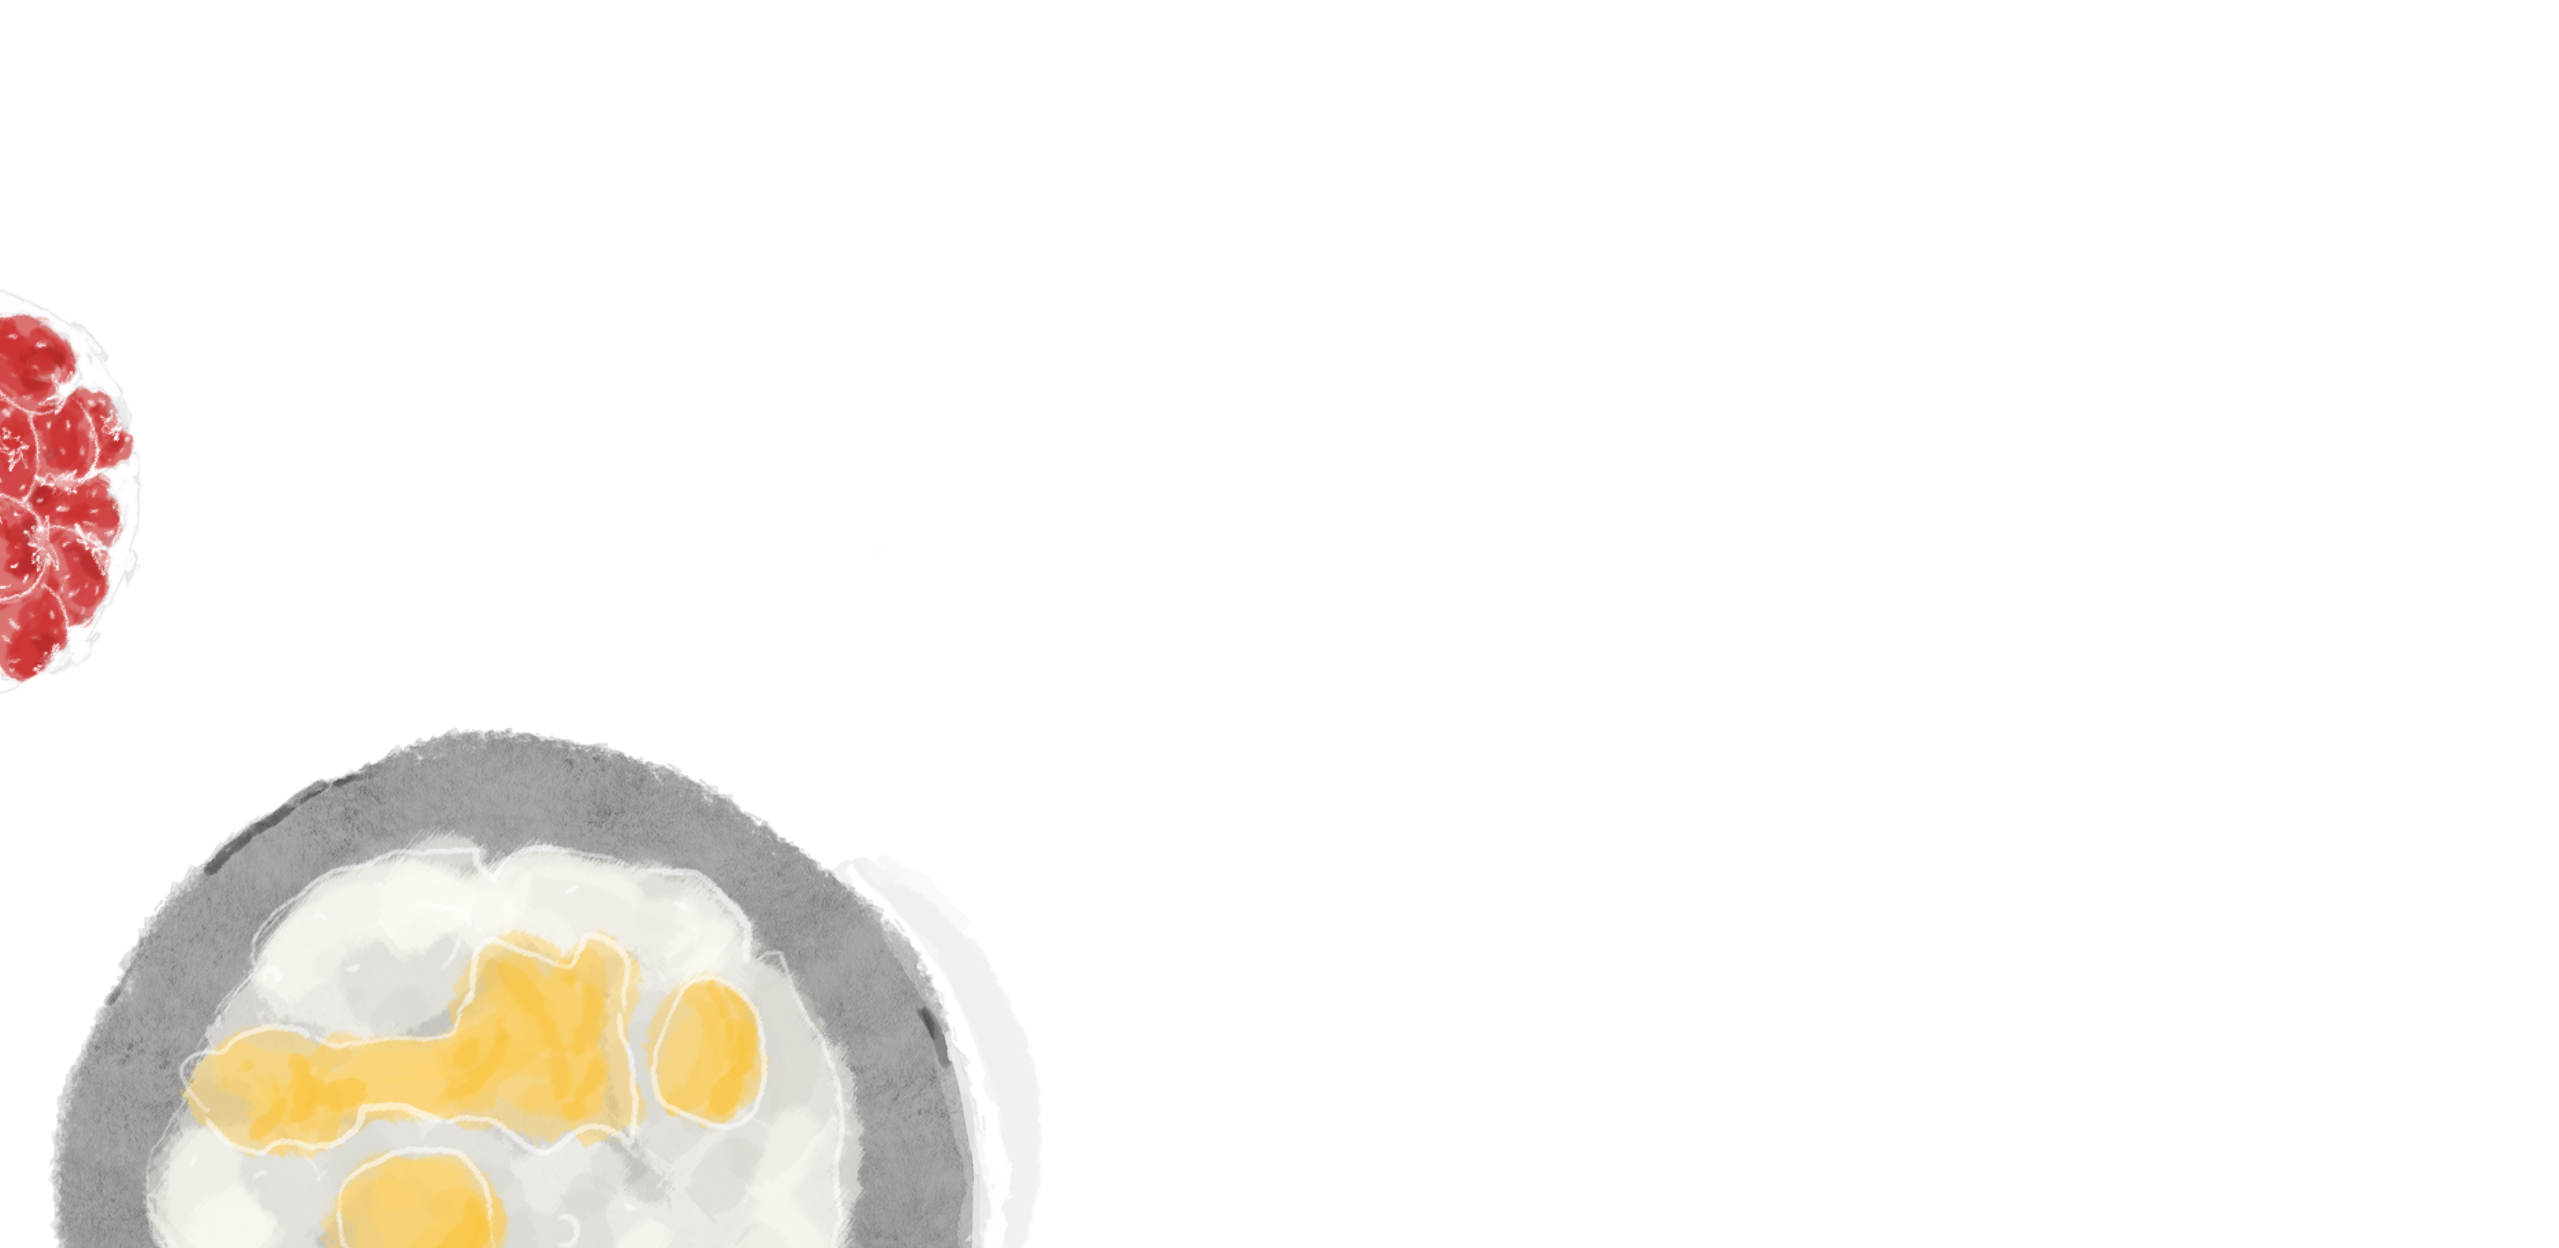
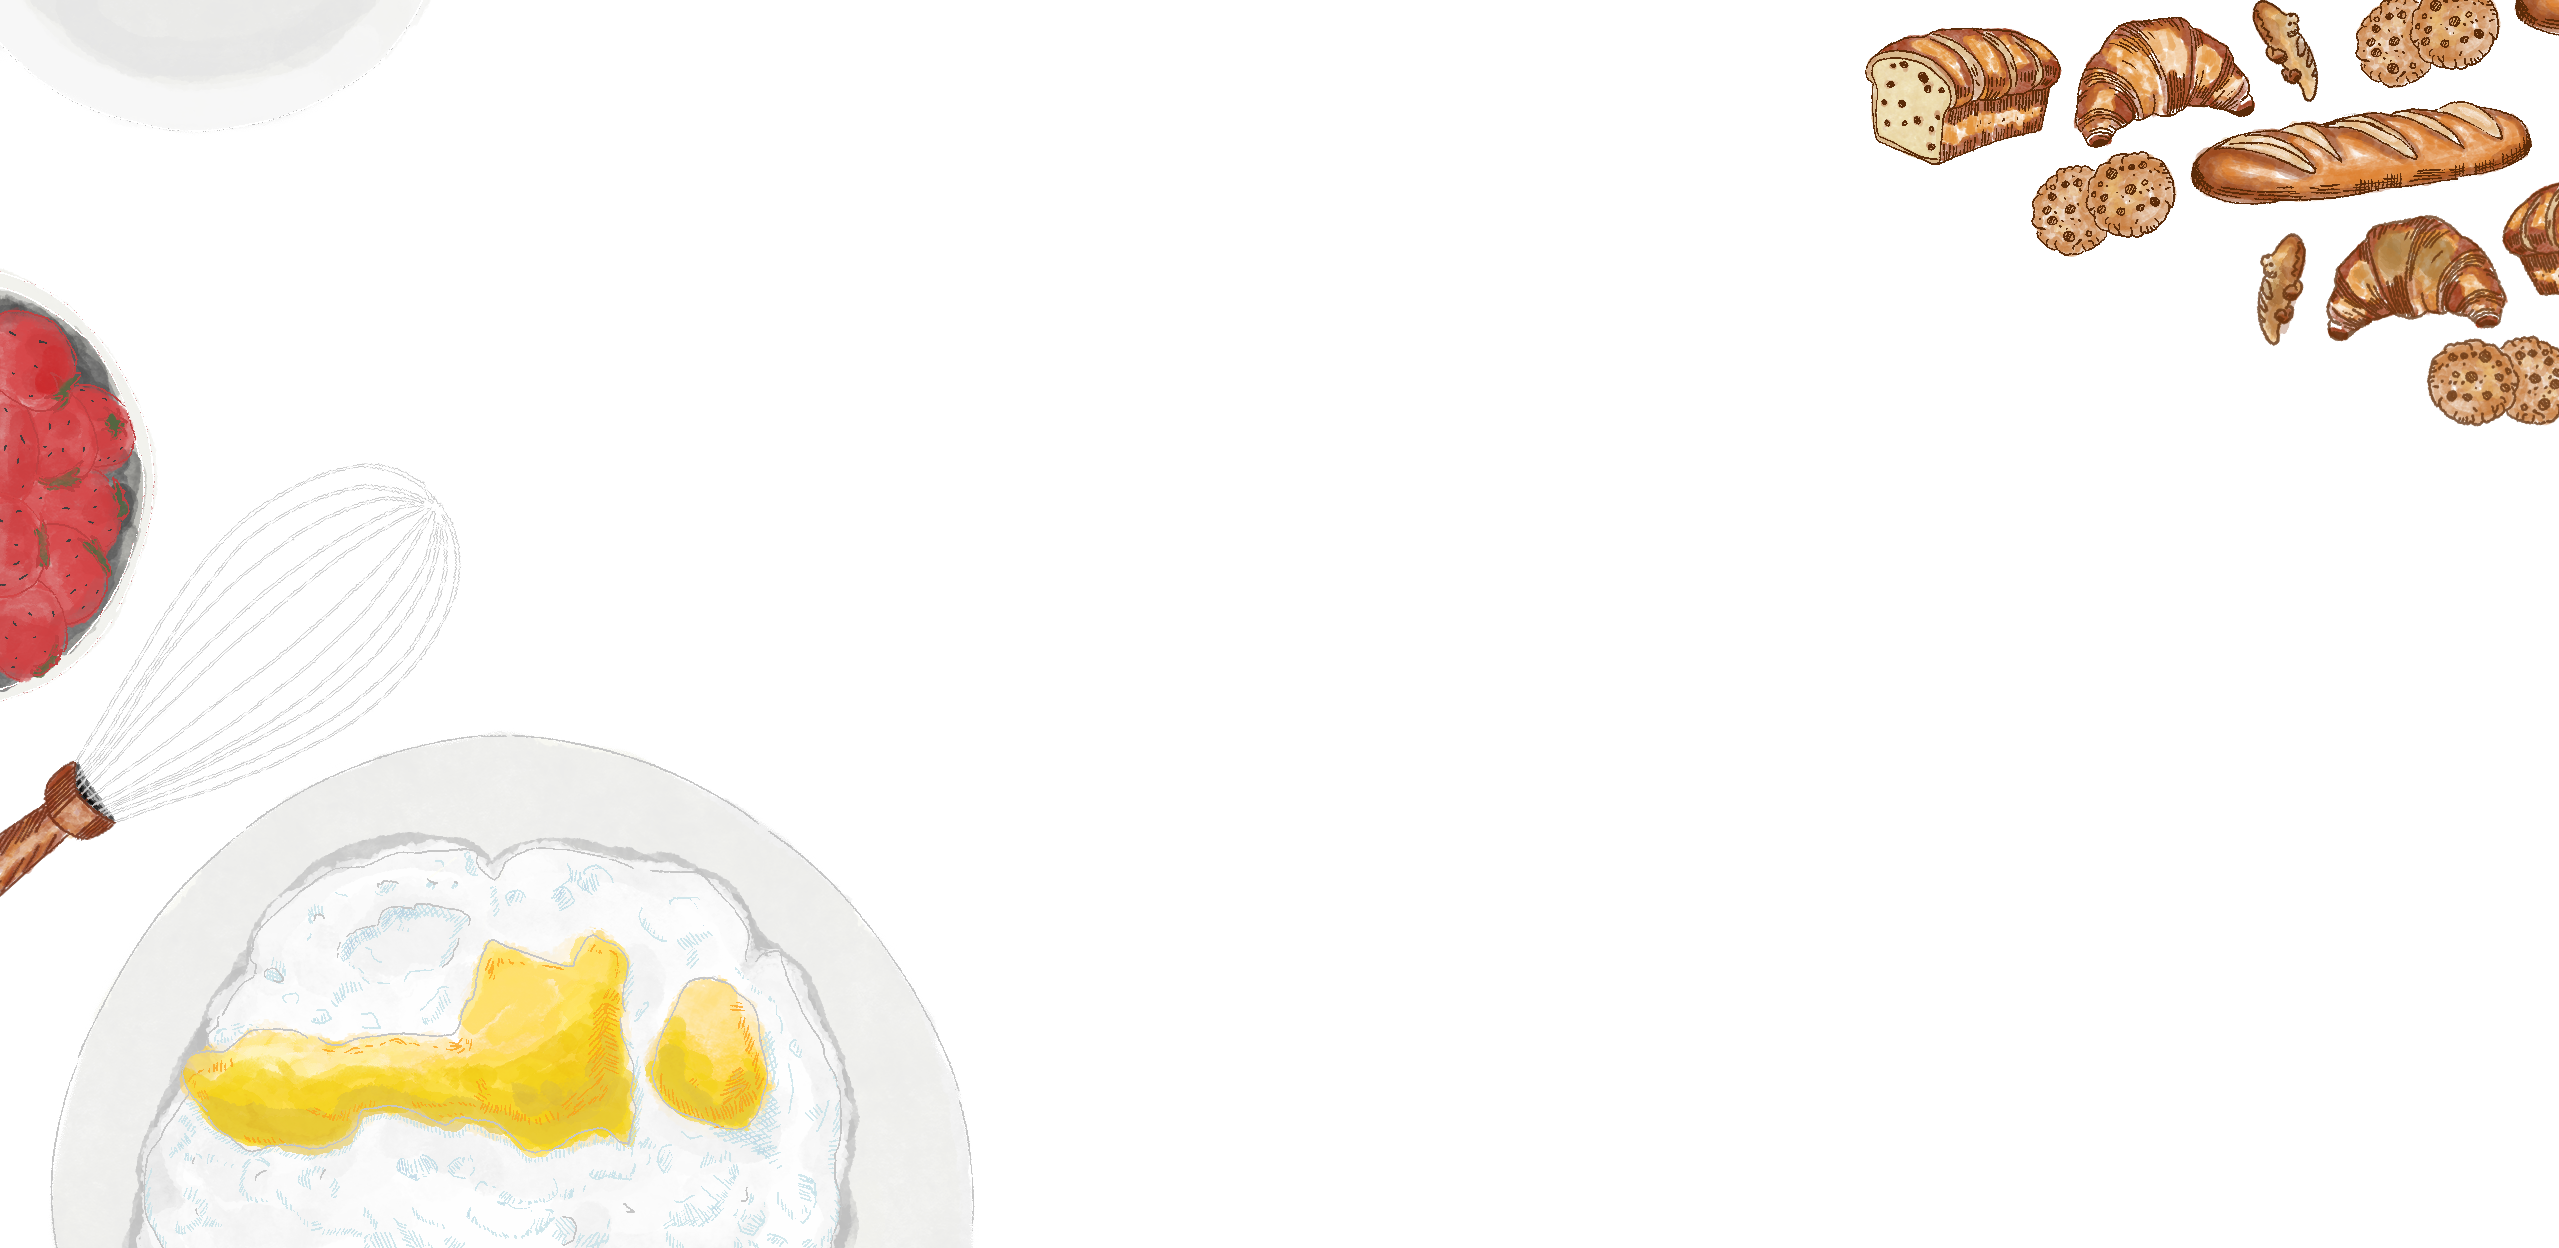
refactor: drew assets and bg image for projects page - #3

diff --git a/components/HomePage.tsx b/components/HomePage.tsx
@@ -4,7 +4,6 @@ import Vignette from "@/components/Vignette";
 import PortfolioHeader from "@/components/PortfolioHeader";
 import SocialLinks from "@/components/SocialLinks";
 import BlackoutBackground from "@/components/BlackoutBackground";
-import Image from "next/image";
 import { useLightbulb } from "@/components/LightbulbContext";
 
 export default function HomePage() {
@@ -24,36 +23,15 @@ export default function HomePage() {
           height: "50%",
         }}
       />
-      <div className="grid grid-cols-1 md:grid-cols-2 flex-1 min-h-0 relative z-10 items-center">
-        <div className="flex flex-col h-full justify-center pl-50">
-          <div className="p-10 mt-[2%] w-14/16 mx-auto">
+      <div className="flex flex-1 min-h-0 relative z-10 items-center justify-center">
+        <div className="flex flex-col h-full justify-center">
+          <div className="p-10 mt-[2%] w-15/16 mx-auto">
             <div className="relative z-101">
               <PortfolioHeader />
               <div className="absolute left-25" style={{ top: "62%", left: "12%" }}>
                 <SocialLinks />
               </div>
             </div>
-          </div>
-        </div>
-        <div className="flex flex-col h-full justify-center">
-          <div className="p-10 pb-[8%] w-10/25 mx-auto">
-            <Image
-              src={isBlackedOut ? "/me-dark.gif" : "/me.gif"}
-              alt="Luke Regalado self-portrait"
-              className="w-full h-auto"
-              width={263}
-              height={261}
-              unoptimized
-            />
-          </div>
-          <div className="p-10 pt-0 w-2/3 mx-auto relative" style={{ top: "-8%" }}>
-            <p className={`font-mono text-2xl tracking-widest leading-relaxed transition-colors duration-500 ${
-              isBlackedOut ? "text-[#EDE8DC]" : "text-muted"
-            }`}>
-              A software engineer who enjoys building purposeful and creative
-              solutions through clean, thoughtful code. Curious by nature;
-              driven by ingenuity.
-            </p>
           </div>
         </div>
       </div>

diff --git a/components/ProjectCarousel.tsx b/components/ProjectCarousel.tsx
@@ -182,33 +182,33 @@ export function ProjectCarousel({ projects }: { projects: Project[] }) {
             
 
               
-            <span className={`absolute top-5 right-6 font-mono text-xs ${isBlackedOut ? "text-[#3DAB7A]/50" : "text-[#3DAB7A]/30"}`}
+            <span className={`absolute top-5 right-6 font-mono text-xs ${isBlackedOut ? "text-sage/50" : "text-sage/30"}`}
             style={{ borderRadius: "15px", transformOrigin: "top center" }} >
               0{i + 1}
             </span>
             <span className={`absolute top-10 left-6 font-mono text-xs tracking-widest uppercase 
-              ${isBlackedOut ? "text-[#E8F0EC]/20" : "text-[#283618]/30"}`}>
+              ${isBlackedOut ? "text-dark-text/20" : "text-forest/30"}`}>
 
               ✦✦✦
             </span>
             <div className="relative flex h-full flex-col justify-start gap-3">
               <div className="space-y-2">
                 <p className={`font-homemadeapple text-4xl leading-15 mt-[23%] mb-0 font-bold tracking-tight text-center 
-                  ${isBlackedOut ? "text-[#E8F0EC]" : "text-[#283618]"}`}>
+                  ${isBlackedOut ? "text-dark-text" : "text-forest"}`}>
                   {project.title}
                 </p>
                 <p className={`font-mono text-sm font-bold leading-relaxed text-center 
-                  ${isBlackedOut ? "text-[#7A9E8A]" : "text-[#283618]"}`}>
+                  ${isBlackedOut ? "text-dark-muted" : "text-forest"}`}>
                   {project.tag}
                 </p>
               </div>
               <p className={`font-mono text-xs leading-relaxed mt-0 
-                ${isBlackedOut ? "text-[#C8DDD4]" : "text-[#283618]"}`}>
+                ${isBlackedOut ? "text-dark-mono" : "text-forest"}`}>
                 {project.description}
               </p>
               {getSlot(i, current) === 0 && project.longDescription && (
                 <span className={`font-mono italic text-[9px] text-right tracking-wide uppercase mt-2 
-                ${isBlackedOut ? "text-[#7A9E8A]/60" : "text-[#283618]/40"}`}>
+                ${isBlackedOut ? "text-dark-muted/60" : "text-forest/40"}`}>
                   view project →
                 </span>
               )}
@@ -222,7 +222,7 @@ export function ProjectCarousel({ projects }: { projects: Project[] }) {
           type="button"
           aria-label="Previous project"
           onClick={() => go(-1)}
-          className="w-9 h-9 rounded-full backdrop-blur-md bg-white/0.03 border border-white/10 text-[#7A9E8A] hover:text-[#E8F0EC] hover:border-white/20 transition-colors flex items-center justify-center text-lg"
+          className="w-9 h-9 rounded-full backdrop-blur-md bg-white/0.03 border border-white/10 text-dark-muted hover:text-dark-text hover:border-white/20 transition-colors flex items-center justify-center text-lg"
         >
           ‹
         </button>
@@ -244,7 +244,7 @@ export function ProjectCarousel({ projects }: { projects: Project[] }) {
           type="button"
           aria-label="Next project"
           onClick={() => go(1)}
-          className="w-9 h-9 rounded-full backdrop-blur-md bg-white/0.03 border border-white/10 text-[#7A9E8A] hover:text-[#E8F0EC] hover:border-white/20 transition-colors flex items-center justify-center text-lg"
+          className="w-9 h-9 rounded-full backdrop-blur-md bg-white/0.03 border border-white/10 text-dark-muted hover:text-dark-text hover:border-white/20 transition-colors flex items-center justify-center text-lg"
         >
           ›
         </button>

diff --git a/app/projects/ProjectsContent.tsx b/app/projects/ProjectsContent.tsx
@@ -123,7 +123,7 @@ export default function ProjectsContent() {
       </section>
 
       {/* Stats strip */}
-      <section
+      {/* <section
         className={`mx-8 md:mx-16 lg:mx-32 mb-24 relative backdrop-blur-xl border rounded-2xl px-8 py-10 grid grid-cols-2 md:grid-cols-4 gap-8 transition-colors duration-500 ${
           isBlackedOut
             ? "bg-white/0.02 border-sage/10 shadow-[0_0_40px_rgba(61,171,122,0.06)]"
@@ -156,7 +156,7 @@ export default function ProjectsContent() {
             </p>
           </div>
         ))}
-      </section>
+      </section> */}
     </main>
   );
 }